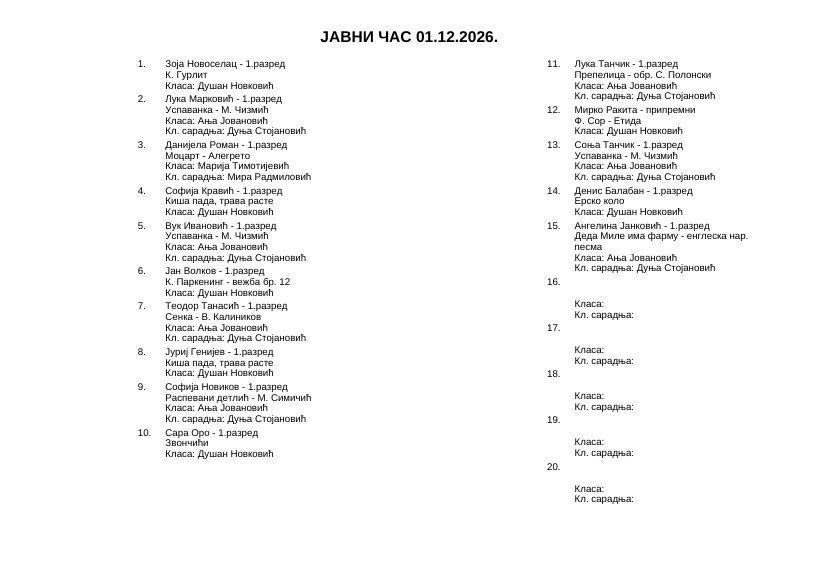
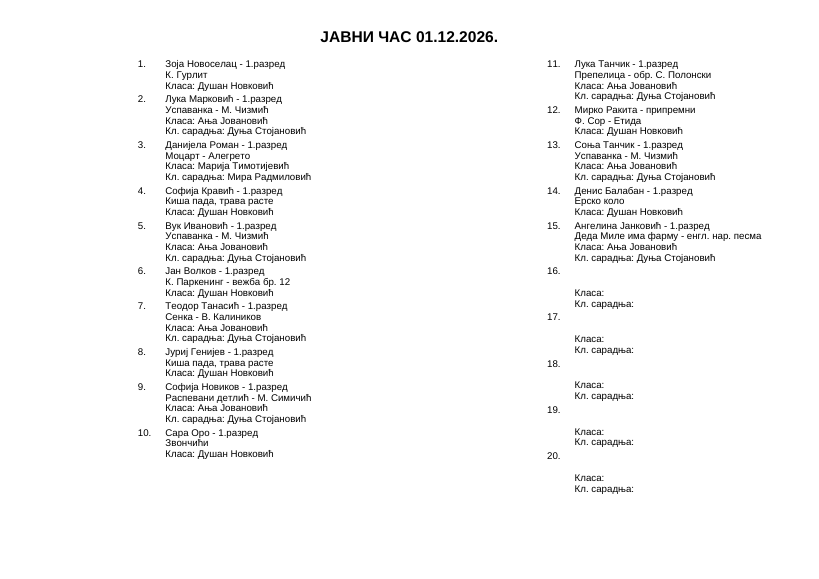
Entry 15: abbreviate subtitle so it fits on one line
Claude-Session: https://claude.ai/code/session_01LY5EZ1CyCikCN3sfjwXzPA

Changed region(s): [[0.6716, 0.4974, 0.7937, 0.8705], [0.7021, 0.4041, 0.9463, 0.4663], [0.6716, 0.4663, 0.7021, 0.4974]]

diff --git a/output/entries.py b/output/entries.py
@@ -14,5 +14,5 @@ ENTRIES = [
     ("Мирко Ракита - припремни",   "Ф. Сор - Етида",               "Душан Новковић",      None),
     ("Соња Танчик - 1.разред",     "Успаванка - М. Чизмић",        "Ања Јовановић",       "Дуња Стојановић"),
     ("Денис Балабан - 1.разред",   "Ерско коло",                   "Душан Новковић",      None),
-    ("Ангелина Јанковић - 1.разред", "Деда Миле има фарму - енглеска нар. песма", "Ања Јовановић", "Дуња Стојановић"),
+    ("Ангелина Јанковић - 1.разред", "Деда Миле има фарму - енгл. нар. песма", "Ања Јовановић", "Дуња Стојановић"),
 ]
